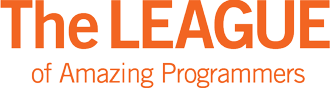
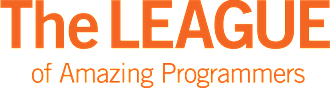
Fix the halo I put on the brand images, and keep the originals
The lightning bolt in the status bar came out looking tilted with a black
outline. My fault: I resized these with ffmpeg, and resizing an image with
transparency is not just "make it smaller". Fully transparent pixels still carry
a colour -- usually black -- and a plain resize averages that black into the
edges of whatever sits next to it. Measured: the source bolt has 0 visible dark
pixels, mine had 722, and its shape had spread from 268x536 to fill the frame.

ffmpeg's premultiply/unpremultiply pair did not fix it either, so this is now a
small Python script that premultiplies, resizes with Lanczos, and undoes it --
verified 0 dark pixels added on all three.

Also: the full-size originals now live in public/img/_source/ and are committed.
They were only in a scratch folder, so the one thing needed to redo this
correctly was the one thing not in the repo.

--check verifies the shipped files match, gained no halo, and kept their shape.

One note on the shape check: my first tolerance was a fixed 0.05, which failed
the bolt for a rounding difference -- the shape is ~32px wide once shrunk, so a
pixel of antialiasing per edge moves the ratio by 0.06. It scales with content
width now. That check never caught anything real; the dark-pixel count is the
one that did.

diff --git a/app/tools/resize-brand-images.py b/app/tools/resize-brand-images.py
@@ -1,0 +1,115 @@
+"""resize-brand-images.py — shrink the three brand PNGs without wrecking their edges.
+
+They shipped at 100-1700x the size they are drawn at: the 20x20 robot avatar was a 480x611 PNG,
+and the 13px bolt was 540x540. Together 144 KB for about 6 KB of actual pixels.
+
+Resizing an image with transparency is not just "make it smaller". Fully transparent pixels still
+carry a colour, usually black, and a plain resize averages that black into the edges of whatever is
+next to it — so a clean orange bolt comes out with a dark halo. Doing it the naive way with ffmpeg
+put 722 dark pixels into a shape that had none, and the result looked tilted and outlined.
+
+The fix is to premultiply (scale each colour channel by its own transparency) BEFORE resizing and
+undo it afterwards, so transparent black has no weight in the average.
+
+Run: python app/tools/resize-brand-images.py [--check]
+     --check verifies the shipped files match what this script would produce, and that none of
+     them gained dark pixels the source did not have.
+"""
+import sys
+from pathlib import Path
+import numpy as np
+from PIL import Image
+
+ROOT = Path(__file__).resolve().parent.parent
+IMG = ROOT / "public" / "img"
+SRC = ROOT / "public" / "img" / "_source"
+
+# name -> height to render at. Each is roughly 4x its on-screen size, so it stays sharp on a
+# high-density screen without carrying a megapixel around.
+TARGETS = {"bolt.png": 64, "clearRobotRing4.png": 80, "wordmark.png": 88}
+
+
+def resize_rgba(im: Image.Image, height: int) -> Image.Image:
+    im = im.convert("RGBA")
+    w, h = im.size
+    width = max(1, round(w * height / h))
+
+    a = np.asarray(im, dtype=np.float64) / 255.0
+    alpha = a[..., 3:4]
+    a[..., :3] *= alpha                      # premultiply
+    prem = Image.fromarray((a * 255).round().astype(np.uint8), "RGBA")
+    prem = prem.resize((width, height), Image.LANCZOS)
+
+    b = np.asarray(prem, dtype=np.float64) / 255.0
+    alpha = b[..., 3:4]
+    # Where a pixel is fully transparent its colour is meaningless; leave it at zero rather than
+    # dividing by zero and inventing one.
+    np.divide(b[..., :3], alpha, out=b[..., :3], where=alpha > 0)
+    b[..., :3] = np.clip(b[..., :3], 0, 1)
+    return Image.fromarray((b * 255).round().astype(np.uint8), "RGBA")
+
+
+def dark_opaque(im: Image.Image) -> int:
+    """Pixels that are visible AND nearly black — the halo a bad resize leaves behind."""
+    a = np.asarray(im.convert("RGBA"), dtype=np.int32)
+    return int(((a[..., 3] > 40) & (a[..., :3].sum(axis=2) < 150)).sum())
+
+
+def content_shape(im: Image.Image):
+    """(wide-to-tall ratio, width in pixels) of the visible part."""
+    box = im.convert("RGBA").getchannel("A").getbbox()
+    if not box:
+        return None, 0
+    w, h = box[2] - box[0], box[3] - box[1]
+    return w / max(1, h), w
+
+
+def main() -> int:
+    check = "--check" in sys.argv
+    bad = 0
+    for name, height in TARGETS.items():
+        src = SRC / name
+        if not src.exists():
+            print(f"missing source: {src}  (originals live in public/img/_source/)")
+            return 1
+        original = Image.open(src)
+        out = resize_rgba(original, height)
+
+        src_dark = dark_opaque(original)
+        out_dark = dark_opaque(out)
+        src_ratio, _ = content_shape(original)
+        out_ratio, out_content_w = content_shape(out)
+
+        if out_dark > src_dark:
+            print(f"FAIL {name}: resize added {out_dark - src_dark} dark pixels (a halo)")
+            bad = 1
+        # Tolerance scales with the CONTENT width, not the canvas. The bolt is only ~32px wide
+        # once shrunk, so one pixel of antialiasing on each edge moves the measured ratio by ~0.06
+        # — a fixed fraction would fail every small image while missing real distortion in a big
+        # one. This caught nothing real; the actual bug (a dark halo) is the check above.
+        tolerance = max(0.04, 3.0 / max(1, out_content_w))
+        if src_ratio and out_ratio and abs(src_ratio - out_ratio) > tolerance:
+            print(f"FAIL {name}: shape changed — was {src_ratio:.2f} wide-to-tall, now {out_ratio:.2f}")
+            bad = 1
+
+        if check:
+            if not (IMG / name).exists():
+                print(f"FAIL {name}: not built"); bad = 1; continue
+            shipped = Image.open(IMG / name)
+            if shipped.size != out.size:
+                print(f"FAIL {name}: shipped {shipped.size}, expected {out.size}"); bad = 1
+            elif dark_opaque(shipped) > src_dark:
+                print(f"FAIL {name}: shipped file has {dark_opaque(shipped)} dark pixels, source has {src_dark}")
+                bad = 1
+            else:
+                print(f"ok   {name}  {shipped.size[0]}x{shipped.size[1]}, no halo")
+        else:
+            out.save(IMG / name, optimize=True)
+            kb = (IMG / name).stat().st_size / 1024
+            print(f"{name}: {original.size[0]}x{original.size[1]} -> {out.size[0]}x{out.size[1]}"
+                  f"  {src.stat().st_size/1024:.0f} KB -> {kb:.0f} KB  (dark px {src_dark} -> {out_dark})")
+    return bad
+
+
+if __name__ == "__main__":
+    raise SystemExit(main())
